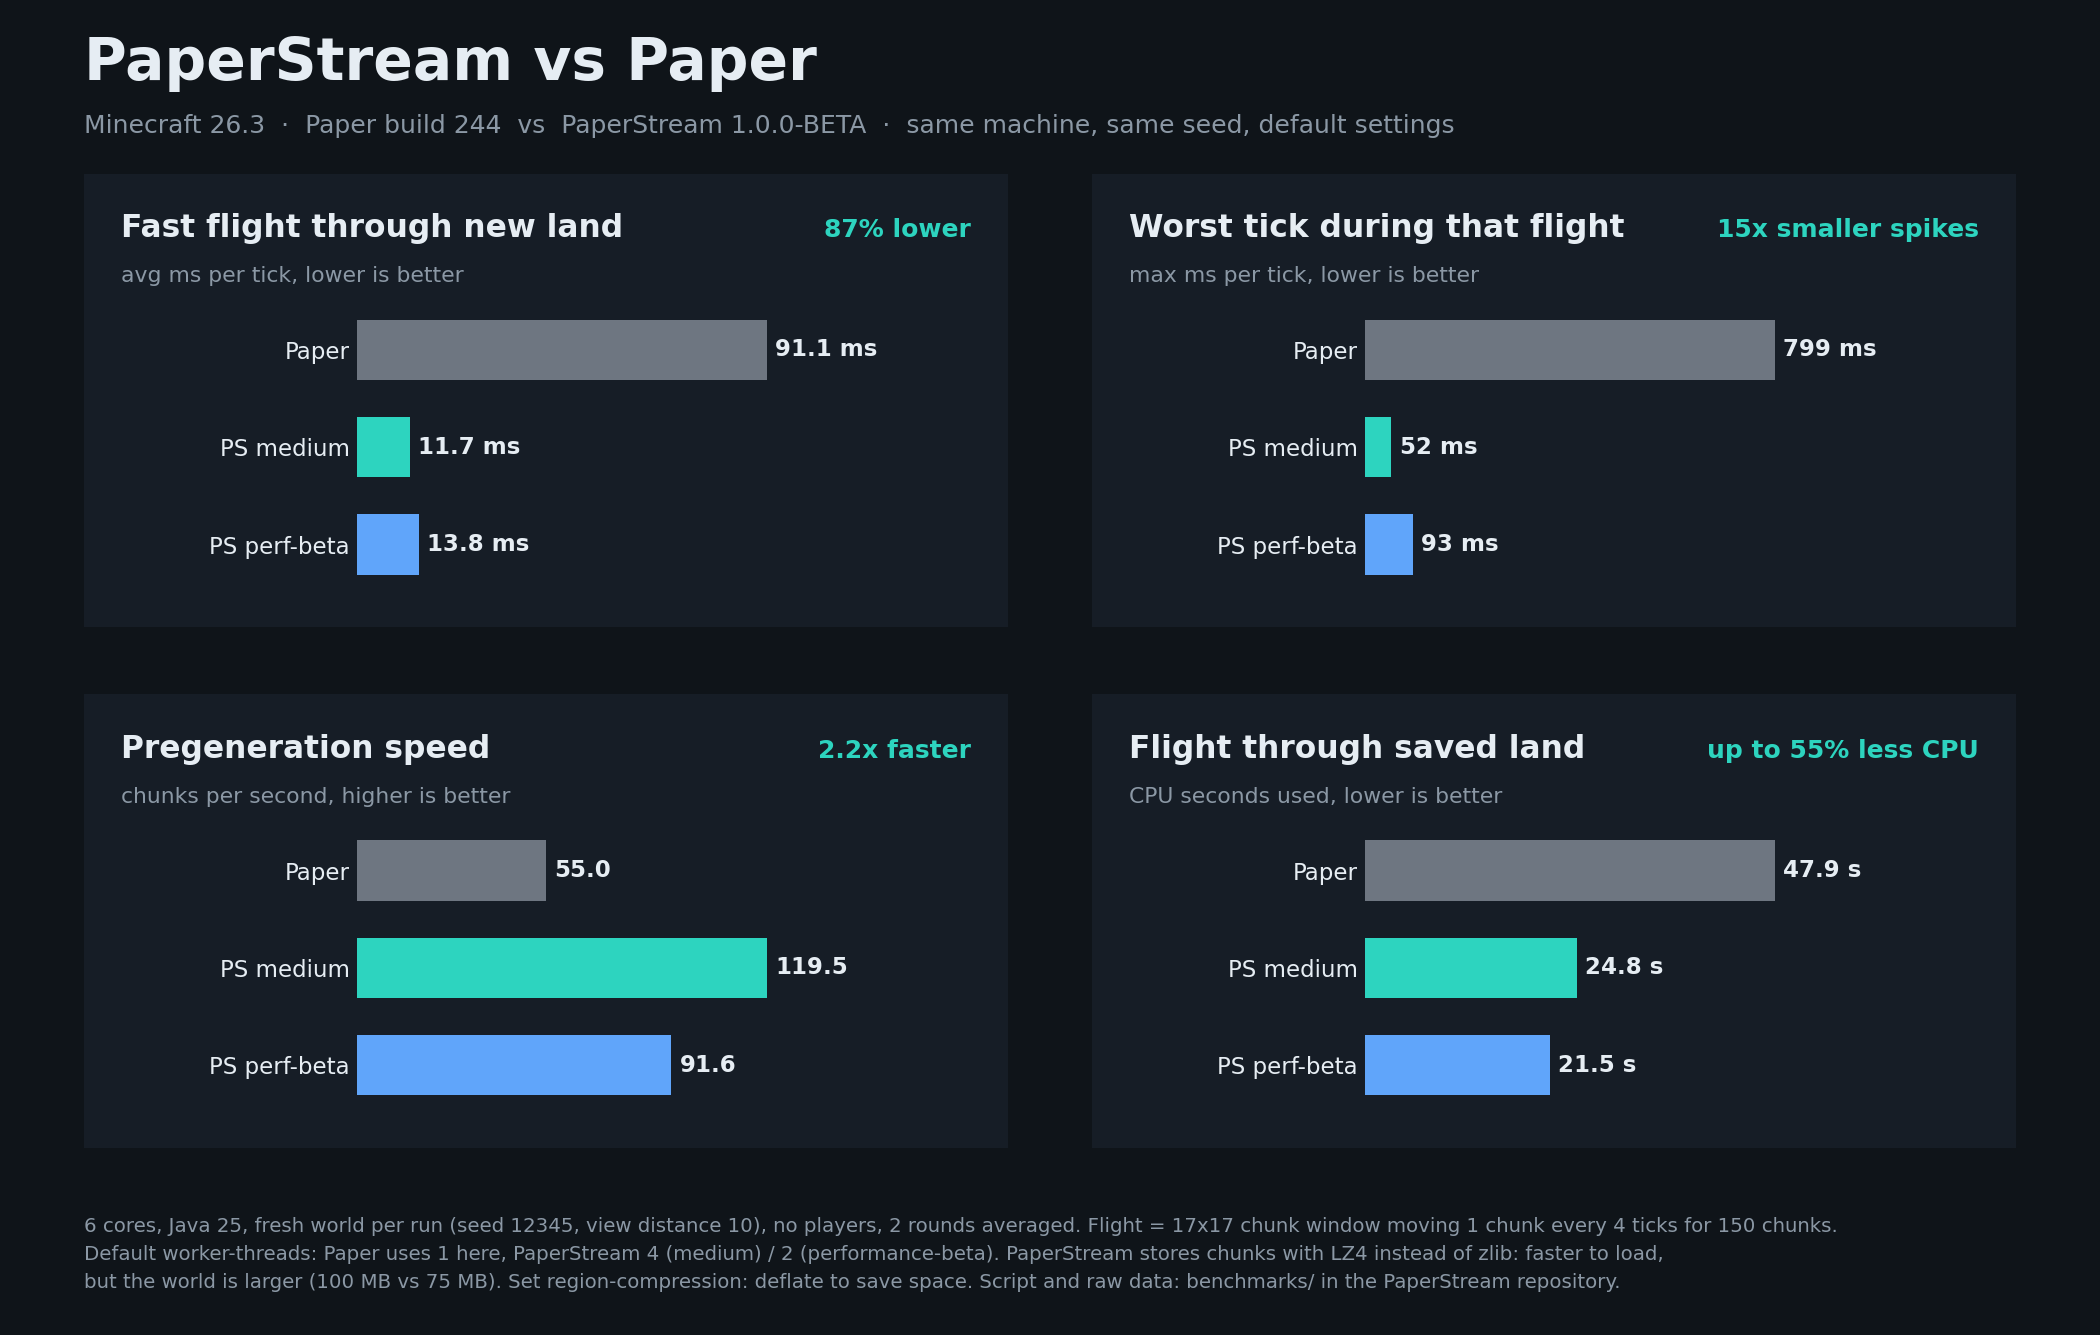
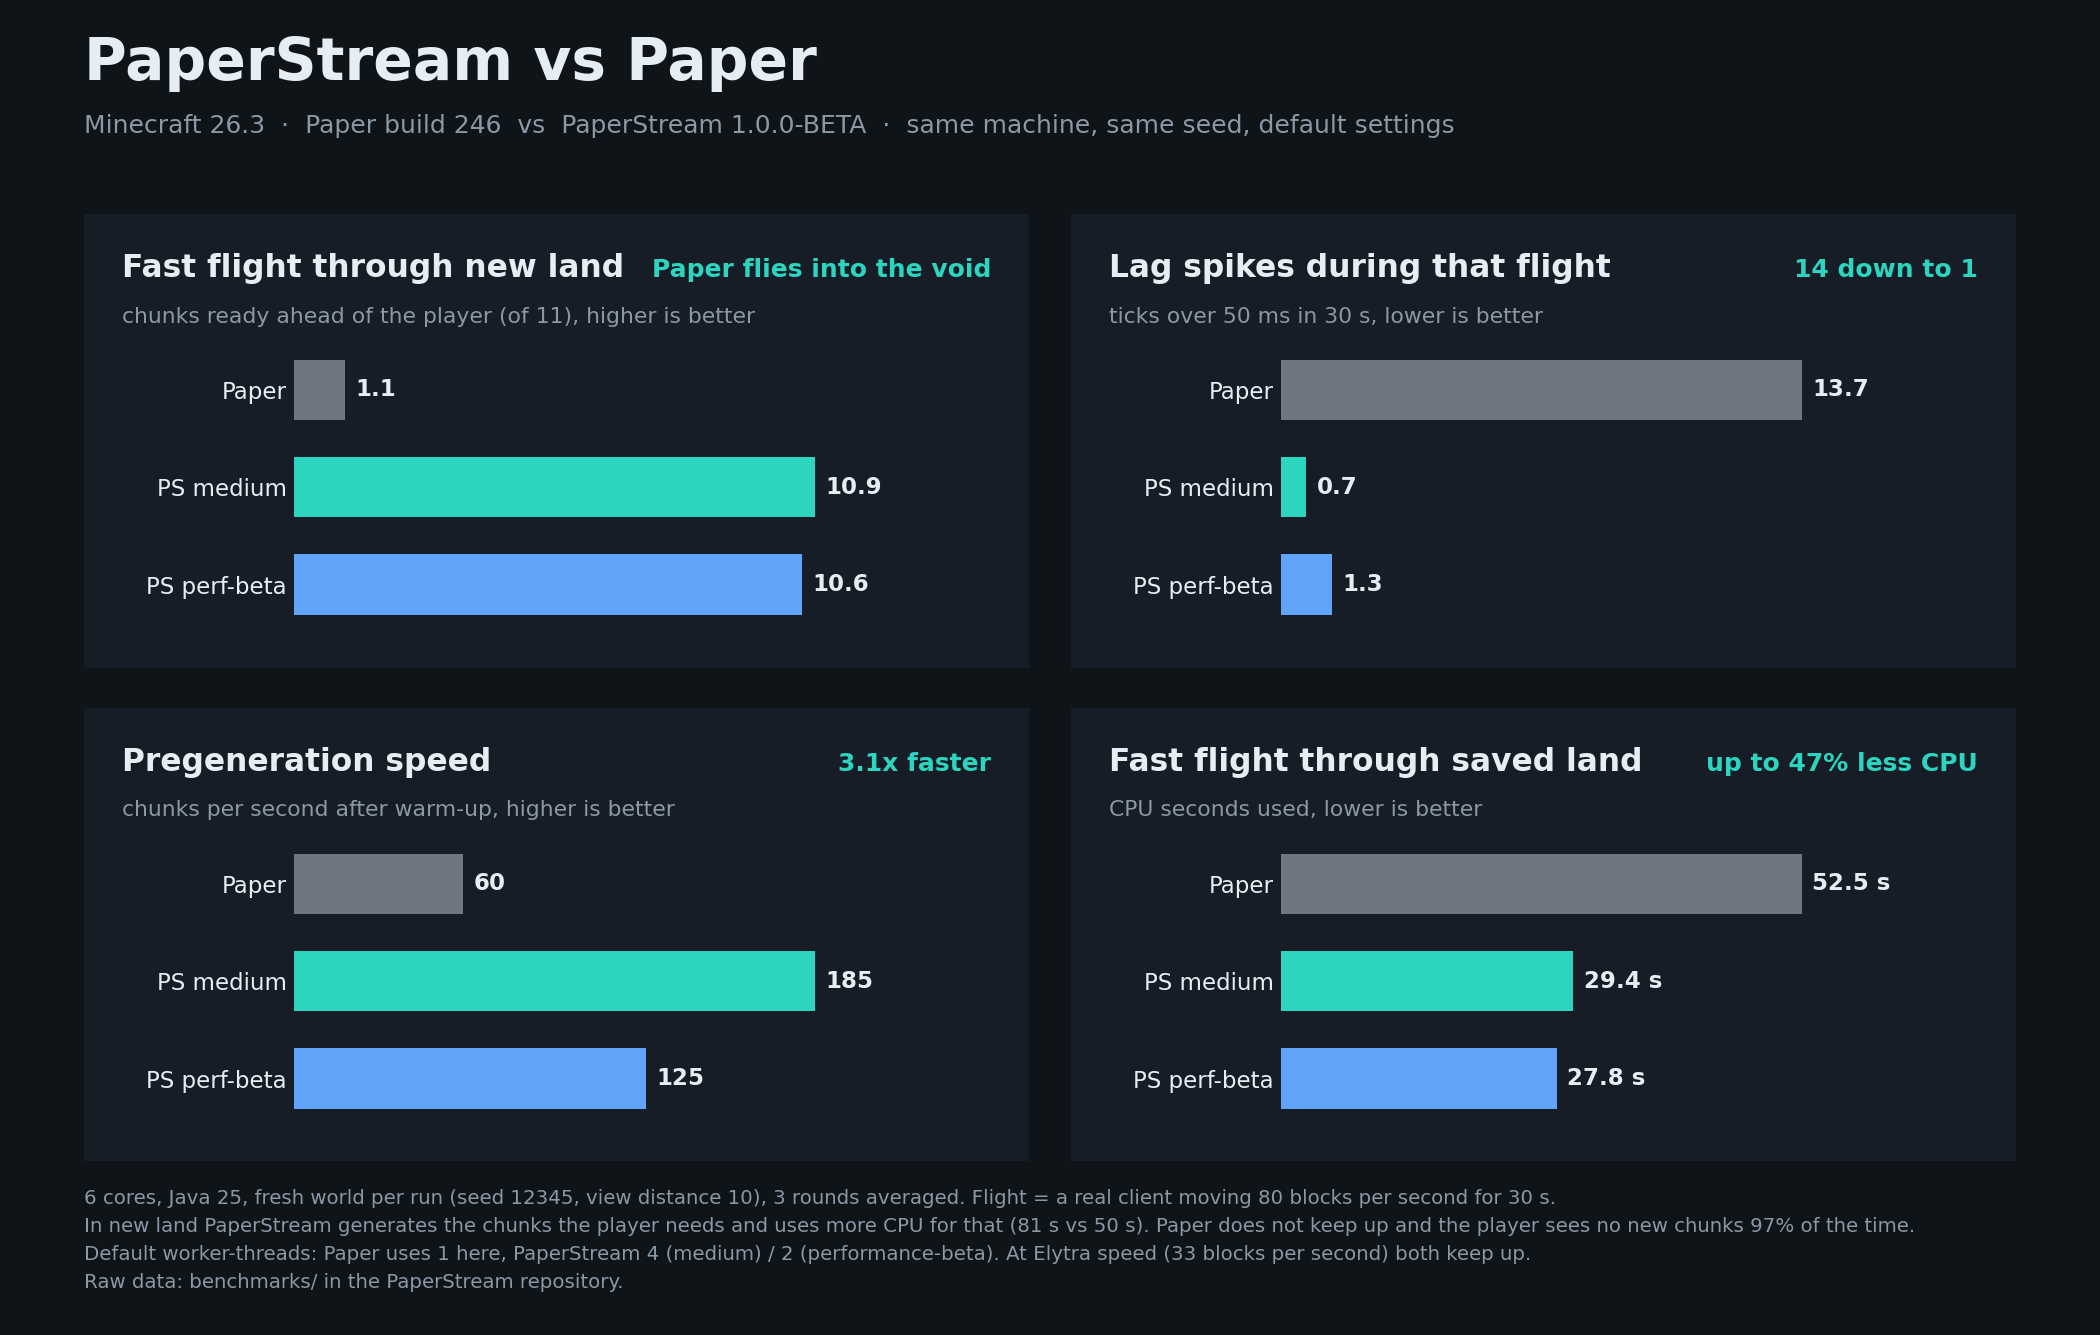
Benchmark: flight measured again with a real client, first flight numbers withdrawn

diff --git a/benchmarks/2026-11-07-paper-vs-paperstream/chart.py b/benchmarks/2026-11-07-paper-vs-paperstream/chart.py
@@ -1,81 +1,78 @@
+#!/usr/bin/env python3
 import json, os
 import matplotlib
 matplotlib.use('Agg')
 import matplotlib.pyplot as plt
 
 HERE = os.path.dirname(os.path.abspath(__file__))
-rows = [json.loads(l) for l in open(HERE + '/results.jsonl')]
 VARIANTS = ['paper', 'ps-medium', 'ps-beta']
 
-def avg(variant, path):
-    vals = []
-    for r in rows:
-        if r['variant'] != variant:
-            continue
-        v = r
-        for p in path:
-            v = v[p]
-        vals.append(v)
-    return sum(vals) / len(vals)
 
-def series(path): return [avg(v, path) for v in VARIANTS]
+def series(name, path):
+    rows = [json.loads(l) for l in open(os.path.join(HERE, name)) if l.strip()]
+    out = []
+    for v in VARIANTS:
+        vals = []
+        for r in rows:
+            if r['variant'] != v:
+                continue
+            x = r
+            for k in path:
+                x = x[k]
+            vals.append(x)
+        out.append(sum(vals) / len(vals))
+    return out
+
 
 BG = '#0f1419'; CARD = '#161d26'; TXT = '#e6edf3'; MUT = '#8b98a5'; ACC = '#2dd4bf'
 COLORS = ['#6e7681', '#2dd4bf', '#60a5fa']
 LABELS = ['Paper', 'PS medium', 'PS perf-beta']
 
-flight = series(['sweepNew', 'avgMspt'])
-spikes = series(['sweepNew', 'maxMspt'])
-pregen = series(['pregen', 'cps'])
-saved = series(['sweepSaved', 'cpu'])
+ahead = series('flight-fast.jsonl', ['flyNew', 'aheadAvg'])
+spikes = series('flight-fast.jsonl', ['flyNew', 'over50'])
+pregen = series('pregen.jsonl', ['gen', 'gen', 'genCps'])
+saved = series('flight-fast.jsonl', ['flySaved', 'cpu'])
 panels = [
-    ('Fast flight through new land', 'avg ms per tick, lower is better', flight, '{:.1f} ms',
-     '{:.0f}% lower'.format((1 - min(flight[1:]) / flight[0]) * 100)),
-    ('Worst tick during that flight', 'max ms per tick, lower is better', spikes, '{:.0f} ms',
-     '{:.0f}x smaller spikes'.format(spikes[0] / min(spikes[1:]))),
-    ('Pregeneration speed', 'chunks per second, higher is better', pregen, '{:.1f}',
+    ('Fast flight through new land', 'chunks ready ahead of the player (of 11), higher is better', ahead, '{:.1f}',
+     'Paper flies into the void'),
+    ('Lag spikes during that flight', 'ticks over 50 ms in 30 s, lower is better', spikes, '{:.1f}',
+     '{:.0f} down to {:.0f}'.format(spikes[0], round(min(spikes[1:])))),
+    ('Pregeneration speed', 'chunks per second after warm-up, higher is better', pregen, '{:.0f}',
      '{:.1f}x faster'.format(max(pregen[1:]) / pregen[0])),
-    ('Flight through saved land', 'CPU seconds used, lower is better', saved, '{:.1f} s',
+    ('Fast flight through saved land', 'CPU seconds used, lower is better', saved, '{:.1f} s',
      'up to {:.0f}% less CPU'.format((1 - min(saved[1:]) / saved[0]) * 100)),
 ]
 
 fig = plt.figure(figsize=(14, 8.9), dpi=150, facecolor=BG)
 fig.text(0.04, 0.94, 'PaperStream vs Paper', color=TXT, fontsize=28, weight='bold')
-fig.text(0.04, 0.90, 'Minecraft 26.3  ·  Paper build 244  vs  PaperStream 1.0.0-BETA  ·  same machine, same seed, default settings',
+fig.text(0.04, 0.90, 'Minecraft 26.3  ·  Paper build 246  vs  PaperStream 1.0.0-BETA  ·  same machine, same seed, default settings',
          color=MUT, fontsize=12)
 for i, (title, sub, vals, fmt, badge) in enumerate(panels):
-    r, c = divmod(i, 2)
-    x0 = 0.04 + c * 0.48
-    y0 = 0.53 - r * 0.39
-    card = fig.add_axes([x0, y0, 0.44, 0.34])
-    card.set_facecolor(CARD); card.set_xticks([]); card.set_yticks([])
+    col, row = i % 2, i // 2
+    card = fig.add_axes([0.04 + col * 0.47, 0.50 - row * 0.37, 0.45, 0.34], facecolor=CARD)
+    card.set_xticks([]); card.set_yticks([])
     for s in card.spines.values():
         s.set_visible(False)
     card.text(0.04, 0.86, title, color=TXT, fontsize=15, weight='bold', transform=card.transAxes)
     card.text(0.04, 0.76, sub, color=MUT, fontsize=10.5, transform=card.transAxes)
     card.text(0.96, 0.86, badge, color=ACC, fontsize=12, weight='bold', ha='right', transform=card.transAxes)
-    ax = fig.add_axes([x0 + 0.13, y0 + 0.03, 0.25, 0.21])
-    ax.set_facecolor(CARD)
-    y = [2, 1, 0]
+    ax = fig.add_axes([0.04 + col * 0.47 + 0.10, 0.50 - row * 0.37 + 0.03, 0.31, 0.21], facecolor=CARD)
     m = max(vals)
-    ax.barh(y, vals, color=COLORS, height=0.62)
-    ax.set_xlim(0, m * 1.28)
-    ax.set_yticks(y); ax.set_yticklabels(LABELS, color=TXT, fontsize=11)
+    ys = [2, 1, 0]
+    ax.barh(ys, vals, color=COLORS, height=0.62)
+    ax.set_xlim(0, m * 1.25)
+    ax.set_yticks(ys); ax.set_yticklabels(LABELS, color=TXT, fontsize=11)
     ax.set_xticks([])
+    ax.tick_params(length=0)
     for s in ax.spines.values():
         s.set_visible(False)
-    ax.tick_params(length=0)
-    for yy, vv in zip(y, vals):
+    for yy, vv in zip(ys, vals):
         ax.text(vv + m * 0.02, yy, fmt.format(vv), va='center', color=TXT, fontsize=11, weight='bold')
 
-world = series(['worldMB'])
 fig.text(0.04, 0.035,
-         '6 cores, Java 25, fresh world per run (seed 12345, view distance 10), no players, {} rounds averaged. '
-         'Flight = 17x17 chunk window moving 1 chunk every 4 ticks for 150 chunks.\n'
-         'Default worker-threads: Paper uses 1 here, PaperStream 4 (medium) / 2 (performance-beta). '
-         'PaperStream stores chunks with LZ4 instead of zlib: faster to load,\n'
-         'but the world is larger ({:.0f} MB vs {:.0f} MB). Set region-compression: deflate to save space. '
-         'Script and raw data: benchmarks/ in the PaperStream repository.'.format(
-             len(rows) // 3, world[1], world[0]),
+         '6 cores, Java 25, fresh world per run (seed 12345, view distance 10), 3 rounds averaged. Flight = a real client moving 80 blocks per second for 30 s.\n'
+         'In new land PaperStream generates the chunks the player needs and uses more CPU for that (81 s vs 50 s). Paper does not keep up and the player sees no new chunks 97% of the time.\n'
+         'Default worker-threads: Paper uses 1 here, PaperStream 4 (medium) / 2 (performance-beta). At Elytra speed (33 blocks per second) both keep up.\n'
+         'Raw data: benchmarks/ in the PaperStream repository.',
          color=MUT, fontsize=9.5, linespacing=1.6)
 fig.savefig(HERE + '/benchmark.png', facecolor=BG)

diff --git a/benchmarks/2026-11-07-paper-vs-paperstream/README.md b/benchmarks/2026-11-07-paper-vs-paperstream/README.md
@@ -1,70 +1,94 @@
-# Paper vs PaperStream, 2026-11-07
+# Paper vs PaperStream
 
 ![Benchmark](benchmark.png)
+
+## Correction, 2026-11-13
+
+The first version of this page (2026-11-07) had wrong flight numbers. The flight test moved a chunk window with plugin tickets. That loads chunks on the main thread, which a real player never does, and the "max MSPT" was a 5 second average. The numbers 91 against 11.7 ms per tick and spikes of 800 against 52 ms came from that and are withdrawn.
+
+The flight is now measured with a real client that flies through the world. The pregeneration numbers are measured again without the warm-up phase. The old raw data is kept in `results-old-method.jsonl`.
 
 ## Setup
 
 - One Pterodactyl server with 6 cores, Java 25, the same machine for every run
-- Paper 26.3 build 244 against PaperStream 26.3 1.0.0-BETA, once with the default profile `medium` and once with `performance-beta`
-- Every run starts with a fresh world: seed 12345, view distance 10, simulation distance 8, no players, no plugins except the measuring plugin in `chunkbench-plugin/`
+- Paper 26.3 build 246 against PaperStream 26.3 1.0.0-BETA, once with the default profile `medium` and once with `performance-beta`
+- Every run starts with a fresh world: seed 12345, view distance 10, simulation distance 8, no plugins except the measuring plugin
 - All settings are the defaults, `worker-threads: -1` (auto)
-- 2 rounds, variants alternating, the table shows the average of both rounds
+- 3 rounds, variants alternating, the tables show the average
 
 Tests:
 
-1. **Pregeneration**: generate 961 chunks (radius 15) with 64 requests at the same time
-2. **Flight through new land**: a 17x17 chunk window moves 150 chunks, one chunk every 4 ticks, like a player flying fast. The chunks have to be generated.
-3. **Flight through saved land**: the same flight after a restart, the chunks come from disk
+1. **Pregeneration**: generate 2,025 chunks with 64 requests at the same time. The first 600 chunks are warm-up and not counted.
+2. **Fast flight**: a real client flies in a straight line at 80 blocks per second for 30 seconds, first through new land, then after a restart through the same, now saved land.
+3. **Elytra flight**: the same at 33 blocks per second.
+
+"Chunks ahead" is how many of the 11 chunks in front of the player (view distance 10 plus the own chunk) are loaded. "No new chunks" is the share of the flight where not a single chunk in front of the player was loaded.
 
 ## Results
+
+Fast flight, 80 blocks per second:
 
 | | Paper | PaperStream medium | PaperStream performance-beta |
 |---|---|---|---|
 | Worker threads (auto) | 1 | 4 | 2 |
-| Pregeneration, chunks per second | 55.0 | **119.5** | 91.6 |
-| Pregeneration, CPU per chunk | 36.5 ms | 41.8 ms | 37.3 ms |
-| Pregeneration, avg MSPT | **2.37** | 5.45 | 3.97 |
-| Flight through new land, avg MSPT | 91.1 | **11.7** | 13.8 |
-| Flight through new land, max MSPT | 799 | **52** | 93 |
-| Flight through new land, CPU | 72.4 s | 79.7 s | **67.2 s** |
-| Flight through saved land, avg MSPT | 6.77 | 6.43 | **5.67** |
-| Flight through saved land, CPU | 47.9 s | 24.8 s | **21.5 s** |
-| Startup, fresh world | 8.5 s | 7.7 s | 7.7 s |
-| Startup, existing world | 5.6 s | 6.1 s | 5.5 s |
-| RAM after the flight | 1.93 GB | 2.03 GB | 2.01 GB |
-| World on disk | **75 MB** | 100 MB | 100 MB |
+| New land, chunks ahead (of 11) | 1.1 | **10.9** | 10.6 |
+| New land, share of the flight with no new chunks | 97% | **0%** | **0%** |
+| New land, ticks over 50 ms | 13.7 | **0.7** | 1.3 |
+| New land, longest tick | 110 ms | 65 ms | **50 ms** |
+| New land, avg ms per tick | **6.0** | 14.5 | 13.9 |
+| New land, CPU | **49.7 s** | 81.3 s | 75.0 s |
+| Saved land, chunks ahead (of 11) | 8.4 | **11.0** | **11.0** |
+| Saved land, avg ms per tick | 12.4 | 8.7 | **8.6** |
+| Saved land, CPU | 52.5 s | 29.4 s | **27.8 s** |
+| RAM after the flight | **1.83 GB** | 2.67 GB | 2.73 GB |
+| World on disk | **80 MB** | 109 MB | 113 MB |
 
-Raw numbers per run are in `results.jsonl`.
+Elytra flight, 33 blocks per second:
 
-RAM is covered separately in [RAM.md](RAM.md): no leak, the same memory as Paper once chunks are unloaded.
+| | Paper | PaperStream medium | PaperStream performance-beta |
+|---|---|---|---|
+| New land, chunks ahead (of 11) | 10.4 | **11.0** | **11.0** |
+| New land, avg ms per tick | 8.9 | 9.1 | **7.7** |
+| New land, CPU | 44.0 s | 43.2 s | **40.6 s** |
+| Saved land, CPU | 19.0 s | 16.4 s | **15.6 s** |
+
+Pregeneration:
+
+| | Paper | PaperStream medium | PaperStream performance-beta |
+|---|---|---|---|
+| Chunks per second after warm-up | 60 | **185** | 125 |
+| Chunks per second including warm-up | 57 | **160** | 112 |
+| Worker CPU per chunk | 16.6 ms | 16.6 ms | **15.1 ms** |
+| Avg MSPT while generating | **2.1** | 6.3 | 3.8 |
+
+Raw numbers per run are in `flight-fast.jsonl`, `flight-elytra.jsonl` and `pregen.jsonl`.
+
+RAM is covered separately in [RAM.md](RAM.md).
 
 ## What this means
 
 Where PaperStream is better:
 
-- Flying fast through new land keeps the server playable: 12 to 14 ms per tick on average instead of 91 ms, spikes below 100 ms instead of 800 ms. Paper drops to about 11 TPS there.
-- Pregeneration is more than twice as fast with `medium`.
-- Flying through saved land needs half the CPU.
-- `performance-beta` uses the least CPU in every test.
+- Flying fast through new land: the chunks in front of the player are there. Paper does not keep up at this speed, the player flies into nothing for 97% of the flight.
+- Fewer lag spikes during that flight: about 1 tick over 50 ms instead of 14.
+- Pregeneration is three times as fast with `medium`, at the same CPU cost per chunk.
+- Flying through saved land needs 44 to 47% less CPU.
 
 Where it is not, or where it needs context:
 
+- In new land PaperStream uses more CPU and has a higher average tick time than Paper (14.5 against 6.0 ms). That is the price for generating the chunks the player needs. Paper is cheaper there because it generates far fewer chunks in the same time.
+- At normal Elytra speed both keep up and the difference is small.
 - A large part of the lead while generating comes from more worker threads. Paper uses only a part of the cores by default. A Paper admin can raise `worker-threads` and gets some of the difference back. This benchmark shows the defaults.
-- During pregeneration the MSPT is higher with `medium` (5.5 instead of 2.4 ms), because more chunks are generated at once. At 20 TPS this is not noticeable, but it is measurable.
-- With `medium` a generated chunk costs about 15% more CPU time in total (more threads, more coordination). `performance-beta` is on par with Paper.
-- The world is 33% larger. PaperStream writes new chunks with LZ4 instead of zlib (`region-compression: lz4` in `paperstream.yml`). LZ4 compresses less but loads much faster, which is part of the lower CPU when loading saved chunks. Set it to `deflate` to save disk space.
-- RAM is about 4% higher.
+- During pregeneration the MSPT is higher with `medium` (6.3 instead of 2.1 ms), because more chunks are generated at once. At 20 TPS this is not noticeable, but it is measurable.
+- RAM right after the fast flight is about 45% higher, because many more chunks were loaded.
+- The world is about 37% larger. PaperStream writes new chunks with LZ4 instead of zlib (`region-compression: lz4` in `paperstream.yml`). LZ4 compresses less but loads much faster, which is part of the lower CPU when loading saved chunks. Set it to `deflate` to save disk space.
 
 Limits of this test:
 
-- No real players, few mobs, no redstone. Older measurements for those are in the main README.
-- One machine with 6 cores, 2 rounds. The rounds are close to each other (mostly less than 10% apart).
+- One player, few mobs, no redstone. Older measurements for those are in the main README.
+- One machine with 6 cores, 3 rounds.
+- Measured with 1.0.0-BETA, not with later versions.
 
-## Running it yourself
+## Scripts
 
-1. Build the plugin in `chunkbench-plugin/` against the Paper API and put it as `jars/ChunkBench.jar` next to the script
-2. Put the server jars as `jars/paper.jar` and `jars/paperstream.jar`
-3. `PTERO_KEY=<client api key> PTERO_SERVER=https://<panel>/api/client/servers/<id> python3 run_benchmark.py 2`
-4. `python3 chart.py` draws `benchmark.png` from `results.jsonl`
-
-The script stops the server, disables its plugins, runs everything in separate worlds and restores the server afterwards. Do not run it on a server with players.
+`run_benchmark.py` and `chunkbench-plugin/` are the scripts of the first version. Their pregeneration test is still valid, their flight test is the one that was withdrawn. The script for the flight with a real client is not in the repository yet. `python3 chart.py` draws `benchmark.png` from the three raw data files.

diff --git a/README.md b/README.md
@@ -77,7 +77,7 @@ All commands need `paperstream.command` (ops by default).
 
 ![Benchmark](benchmarks/2026-11-07-paper-vs-paperstream/benchmark.png)
 
-Paper 26.3 against PaperStream 1.0.0-BETA with default settings on the same machine. Setup, all numbers including where Paper is ahead, raw data and the script are in [benchmarks/2026-11-07-paper-vs-paperstream](benchmarks/2026-11-07-paper-vs-paperstream).
+Paper 26.3 against PaperStream 1.0.0-BETA with default settings on the same machine, corrected on 2026-11-13 (the first flight numbers were wrong). Setup, all numbers including where Paper is ahead and the raw data are in [benchmarks/2026-11-07-paper-vs-paperstream](benchmarks/2026-11-07-paper-vs-paperstream).
 
 Numbers from local test servers with bots, Minecraft 26.2.
 
